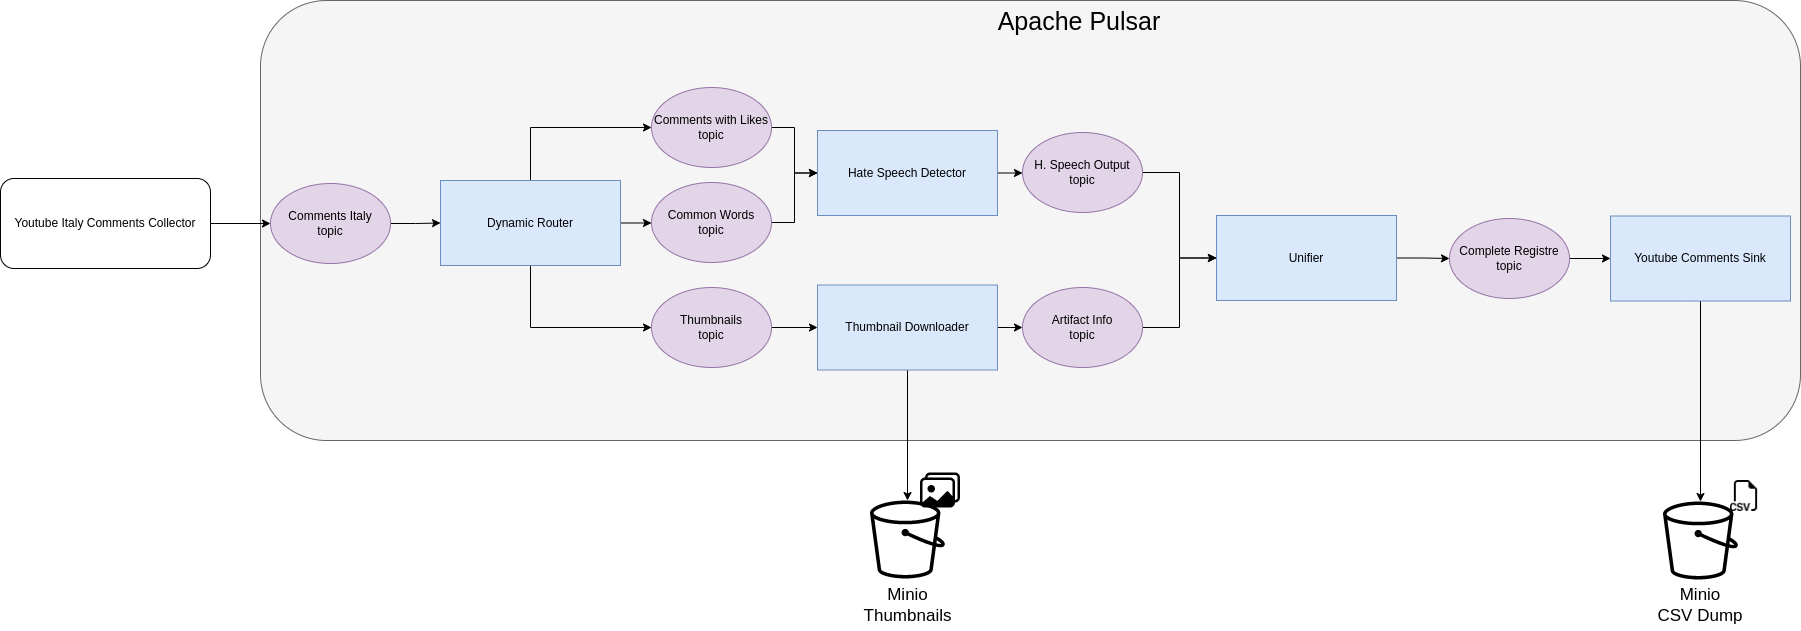
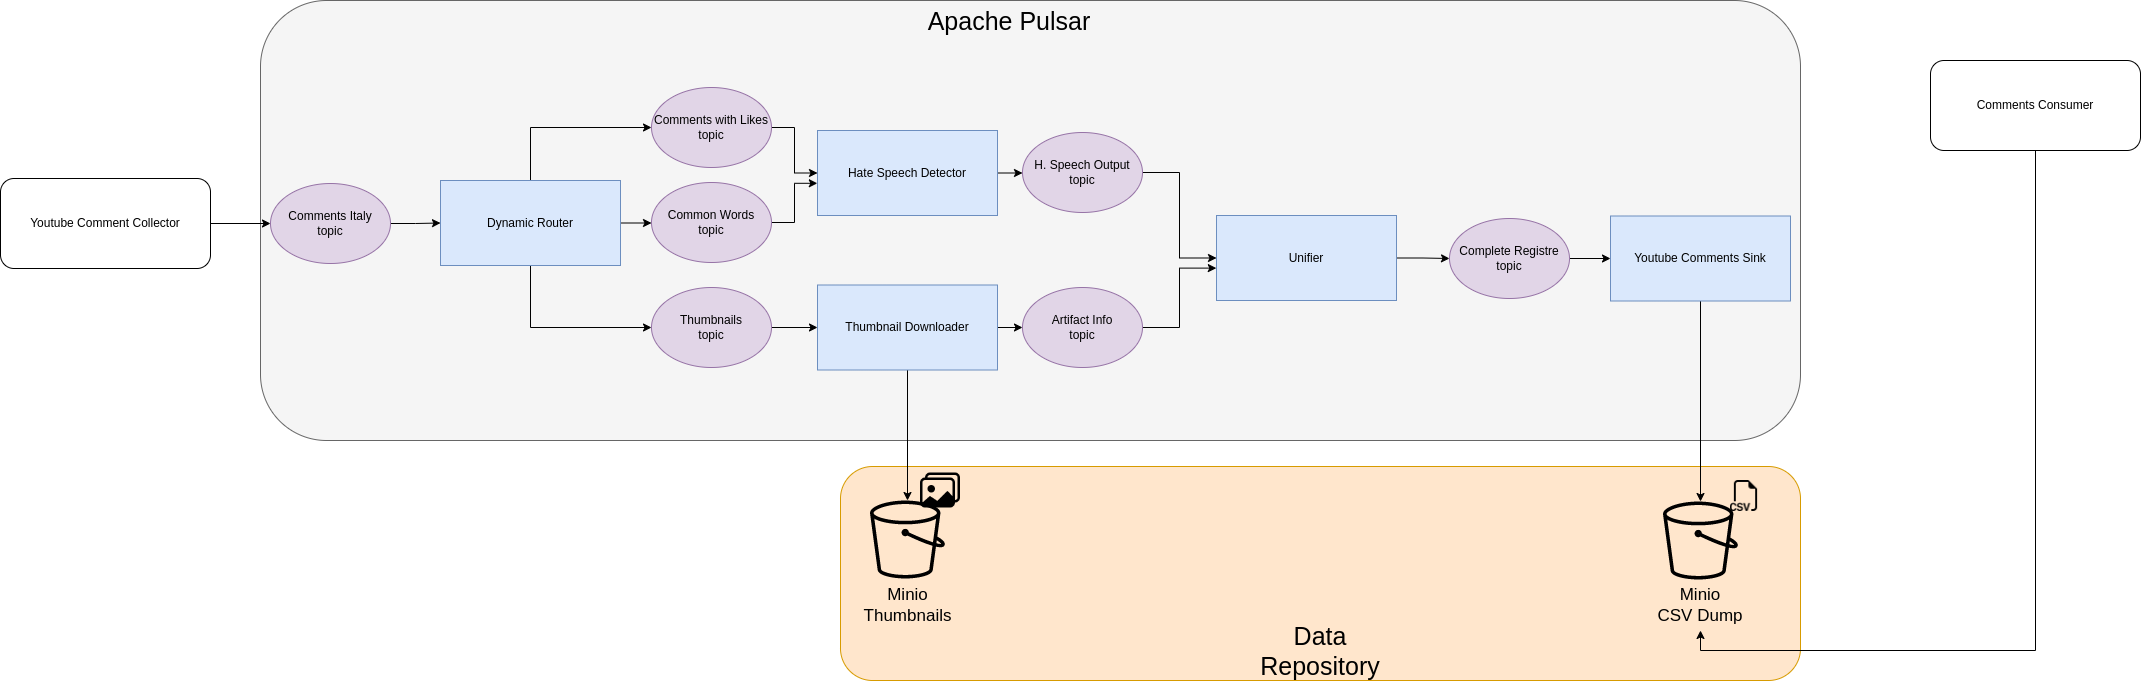
update image

diff --git a/README.md b/README.md
@@ -104,13 +104,24 @@ Start port foward:
 kubectl port-forward pod/minio 9000 9090
 ```
 
-Login in in the Minio Console, create the credentials and two buckets:
+Login in the Minio Console (http://localhost:9000) with the default credentials (`minioadmin:minioadmin`) and create two buckets:
 ```
 csvbucket
 thumbnails
 ```
-# Running
+Create the access keys on minio and update the following yaml files:
+```
+thumbnaildownloader/thumbnaildownloader.yaml
+data_consumer/data_consumer.yaml
+pulsar-sink/cloud-sink.yaml
+```
 
+# Running
+Go on https://console.cloud.google.com/ create a project and create a Youtube API key and update the yaml file:
+
+```
+youtube_collector/youtube_collector.yaml
+```
 After the installation of the requirements simply deploy with the script:
 
 ```bash
